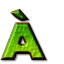
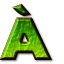
Improve green font diacritics

diff --git a/rawdata/mkatlas.py b/rawdata/mkatlas.py
@@ -33,6 +33,7 @@ parser.add_argument('--space-width', type=int, default=28)
 parser.add_argument('--char-spacing', type=int, default=0)
 parser.add_argument('--crop', action=argparse.BooleanOptionalAction, default=True)
 parser.add_argument('--padding', type=int, default=1)
+parser.add_argument('--y-offset', type=int, default=0)
 args = parser.parse_args()
 
 fontname = args.srcdir
@@ -109,7 +110,7 @@ for filename in sorted(os.listdir(fontname)):
 
         ascender = cy1 - baseline
         descender = cy2 - baseline
-        yoff = int(BASE_H + ascender)
+        yoff = int(BASE_H + ascender) + args.y_offset
         print(chr(codepoint), baseline, ascender, yoff)
         #yoff = ( BASE_H//2 + int(raw_image.height/2 - cy2) )
         yadv = raw_image.height  # perhaps BASE_H would be better here?  the game doesn't use yadv for fonts anyway
@@ -122,7 +123,7 @@ for filename in sorted(os.listdir(fontname)):
         xadv += CHAR_SPACING
     else:
         xoff = cx1
-        yoff = cy1
+        yoff = cy1 + args.y_offset
         xadv = raw_image.width
         yadv = raw_image.height
     
